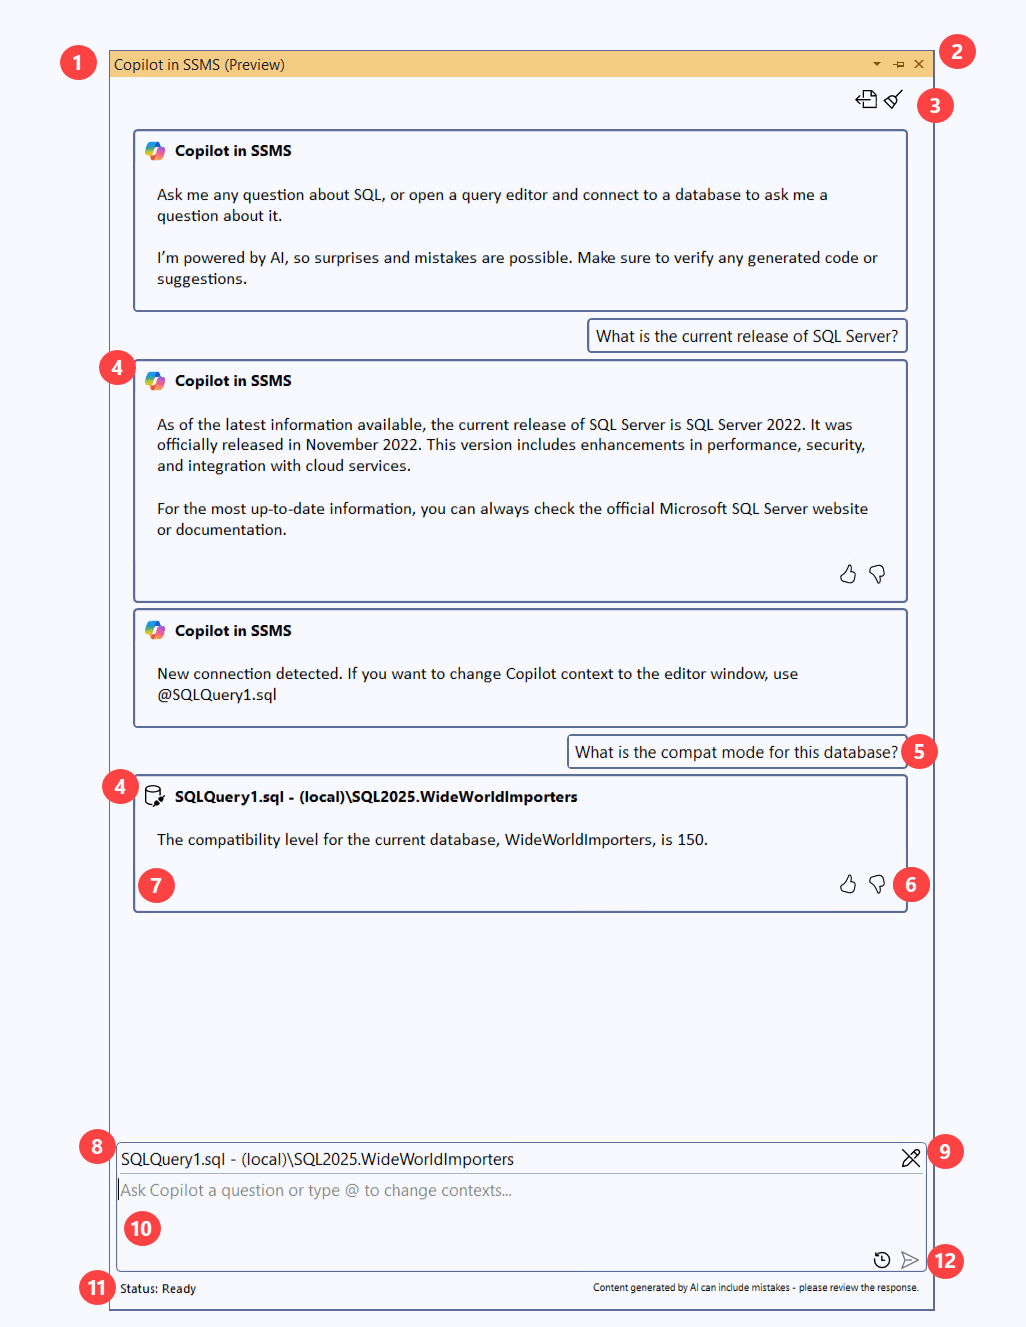
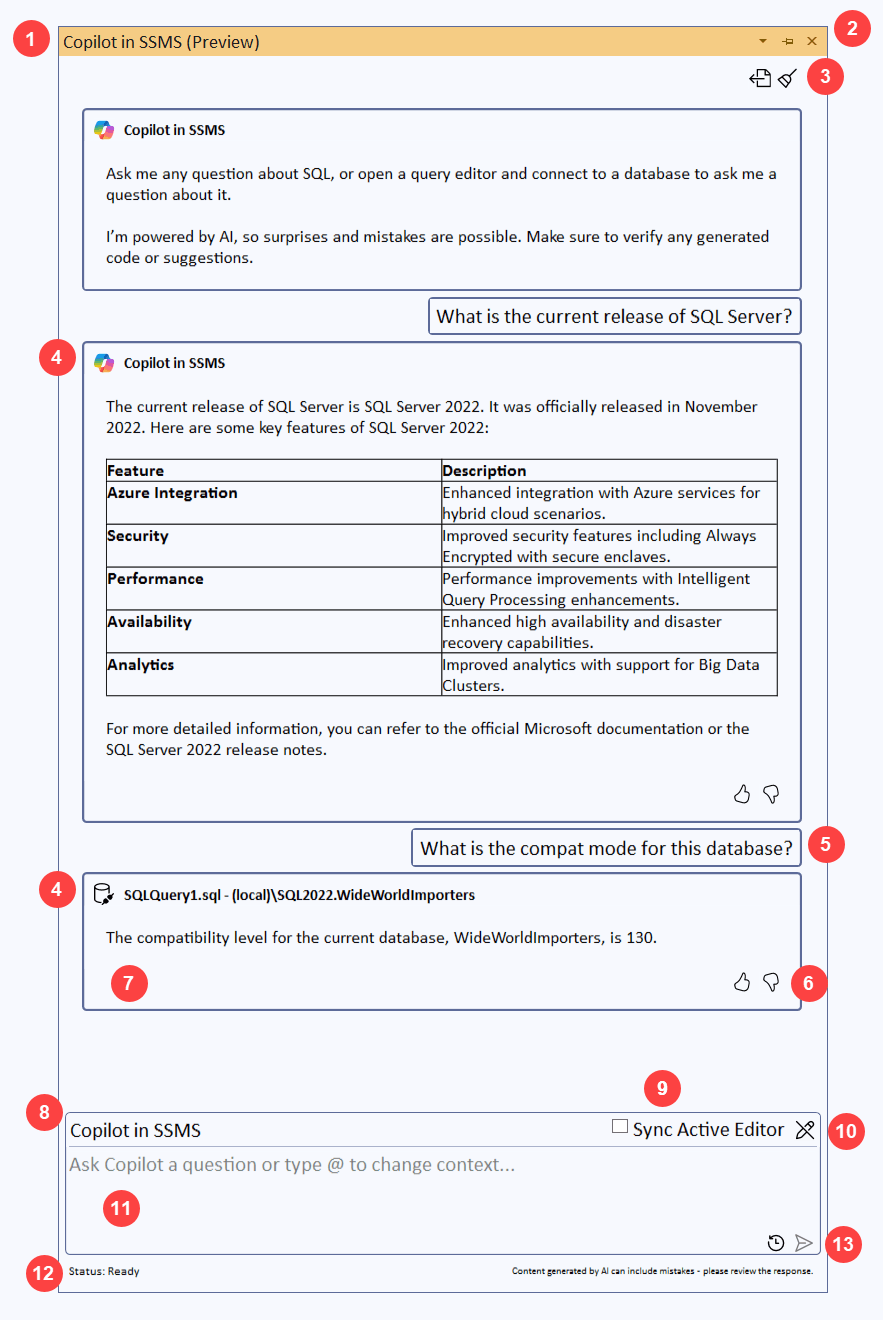
SSMS 21.4.8 updates

Changed region(s): [[0.0, 0.0, 1.0, 0.7765], [0.581, 0.8076, 0.9785, 0.9939], [0.0306, 0.8076, 0.581, 0.9939]]

diff --git a/ssms/release-notes-21.md b/ssms/release-notes-21.md
@@ -4,7 +4,7 @@ description: Release notes for SQL Server Management Studio (SSMS).
 author: erinstellato-ms
 ms.author: erinstellato
 ms.reviewer: randolphwest, mbarickman
-ms.date: 07/08/2025
+ms.date: 07/09/2025
 ms.service: sql-server-management-studio
 ms.topic: whats-new
 ms.collection:
@@ -44,6 +44,7 @@ For previous versions of SSMS, see:
 | Feature | Details |
 | --- | --- |
 | Central Management Servers (CMS) | Updated the Central Management Servers registration dialog and removed unnecessary fields. |
+| Copilot in SSMS (Preview) | Implemented automatic syncronization to the active query editor for the chat window using the **Sync Active Editor** option. |
 | Files | Updated the default location for File Save to `%USERPROFILE%\Documents\SQL Server Management Studio 21`. See [File Open and File Save are using a different location to SSMS 20](https://developercommunity.visualstudio.com/t/File-Open-and-File-Save-are-using-as-dif/10856099). |
 | IntelliSense | Added support for Query Store secondary replicas syntax `FOR SECONDARY SET` and `OPERATION_MODE`. |
 | Query Data Store (QDS) | Added seconds and milliseconds to the data picker for Overall Resource Consumption: [SSMS - Query Store graphs configure options adding seconds and milliseconds to defined time interval](https://developercommunity.visualstudio.com/t/SSMS---Query-Store-graphs-configure-opti/10877985). |
@@ -55,6 +56,8 @@ For previous versions of SSMS, see:
 | --- | --- |
 | Always Encrypted | Fixed several issues including an issue in the Create a New Column Master Key wizard where **Sort by Create Date** was incorrectly sorting by String, an issue that prevented Always Encrypted set up to be completed [when using SSMS with Russian localization](https://developercommunity.visualstudio.com/t/Can-not-set-up-Always-Encrypted-with-Azu/10856776), and an issue in the Create a New Column Master Key wizard that improperly sized the subscription and tenant dropdown boxes. |
 | Central Management Servers (CMS) | Addressed a bug that didn't add the server connection information to the recently used connections in the Connection Dialog. | 
+| Copilot in SSMS (Preview) | Improved initial chat experience if Entra authentication to Azure OpenAI doesn't occur. |
+| Copilot in SSMS (Preview) | Fixed issue where the current contex entry was not updating if a tab was renamed. |
 | Connection Dialog | Fixed a bug that caused the Modern connection dialog (Preview) to clear its recent and pinned connections when multiple instances of SSMS were open. See [Connections dialog forgets connections](https://developercommunity.visualstudio.com/t/Connections-Dialog-forgets-connections/10908219). | 
 | Migration Assistant | Fixed an error in the Migration Assistant Assessment Wizard that caused UI elements to incorrectly display when the display resolution was set to 250%. |
 | Query Data Store (QDS) | Addressed an issue where **Overall Resource Consumption** was incorrectly aggregating data when the display time was set to **Local**. See [QDS - Overall Resource Consumption graphs return incorrect information when choosing "Time format: Local" with aggregation per day](https://developercommunity.visualstudio.com/t/QDS---Overall-Resource-Consumption-graph/10873252). |
@@ -192,7 +195,7 @@ For previous versions of SSMS, see:
 | Connection Dialog | Updated strict encryption label to **Strict (Minimum SQL 2022 or Azure SQL)** in the **Encryption** dropdown list on the connection dialog. |
 | Connection Dialog | Introduced a Modern connection dialog experience for SQL Server database engines. You can enable or disable this experience within **Tools > Options > Environment > Connection Dialog**. |
 | Connection Dialog | Added dark mode support for Modern connection dialog (Preview). See [New connection dialog does not support dark mode](https://developercommunity.microsoft.com/t/New-connection-dialog-does-not-support-d/10893407?q=%22dark%22). |
-| Copilot in SSMS | Added [Copilot in SSMS (preview)](copilot/copilot-in-ssms-overview.md) available from the AI Assistance workload in the Visual Studio Installer. |
+| Copilot in SSMS (Preview) | Added [Copilot in SSMS (Preview)](copilot/copilot-in-ssms-overview.md) available from the AI Assistance workload in the Visual Studio Installer. |
 | Database Properties | Added a page to list Database Scoped Configuration values on the **Database Properties** dialog. |
 | Database Properties | Added support for [!INCLUDE [sssql25-md](includes/sssql25-md.md)] FULLTEXT_INDEX_VERSION configuration options in the database properties dialog. |
 | Drivers | Updated Microsoft.Data.SqlClient (MDS) to version 5.1.6. |

diff --git a/ssms/copilot/copilot-in-ssms-chat.md b/ssms/copilot/copilot-in-ssms-chat.md
@@ -5,7 +5,7 @@ description: Learn how to use the chat window for Copilot in SQL Server Manageme
 author: erinstellato-ms
 ms.author: erinstellato
 ms.reviewer: randolphwest
-ms.date: 05/28/2025
+ms.date: 07/09/2025
 ms.update-cycle: 180-days
 ms.service: sql-server-management-studio
 ms.topic: how-to
@@ -41,7 +41,11 @@ Use **Ctrl** + mousewheel to increase or decrease the size of the text within th
 
 If you initially open Copilot in SSMS without a connected query editor window, Copilot isn't connected to any database, but you can still ask general questions about SQL or SSMS. In this scenario, the current context is Copilot in SSMS.
 
-To query a specific database, get help with Natural Language to SQL (NL2SQL), or get other assistance, open a query editor window that is connected to that database. To change Copilot's context to that connection, enter the `@` symbol in the prompt box to display the available context list. The context includes the name of the query editor and connection information. Once a context is selected, the editor and connection are listed as the current context above the prompt box.
+To query a specific database, get help with Natural Language to SQL (NL2SQL), or get other assistance, open a query editor window that is connected to that database. The chat window automatically changes to the context of the new query editor. The context includes the name of the query editor and connection information. 
+
+To change Copilot's context, enter the `@` symbol in the prompt box to display the available context list. When context changes, the editor and connection are listed as the current context above the prompt box, and the **Sync Active Editor** option is not selected.
+
+To resynchronize with the active editor at any time, enable the **Sync Active Editor** option.
 
 :::image type="content" source="media/copilot-in-ssms-chat/copilot-ssms-chat.png" alt-text="Screenshot of Copilot in SSMS chat window." lightbox="media/copilot-in-ssms-chat/copilot-ssms-chat.png":::
 
@@ -55,10 +59,11 @@ To query a specific database, get help with Natural Language to SQL (NL2SQL), or
 | 6 | Feedback icons |
 | 7 | Copilot response, including queries |
 | 8 | Current context |
-| 9 | Current mode |
-| 10 | Prompt box |
-| 11 | Status information |
-| 12 | Prompt options, to view prompt history and submit a prompt |
+| 9 | Sync Active Editor option |
+| 10 | Current mode |
+| 11 | Prompt box |
+| 12 | Status information |
+| 13 | Prompt options, to view prompt history and submit a prompt |
 
 ## Submit a prompt
 
